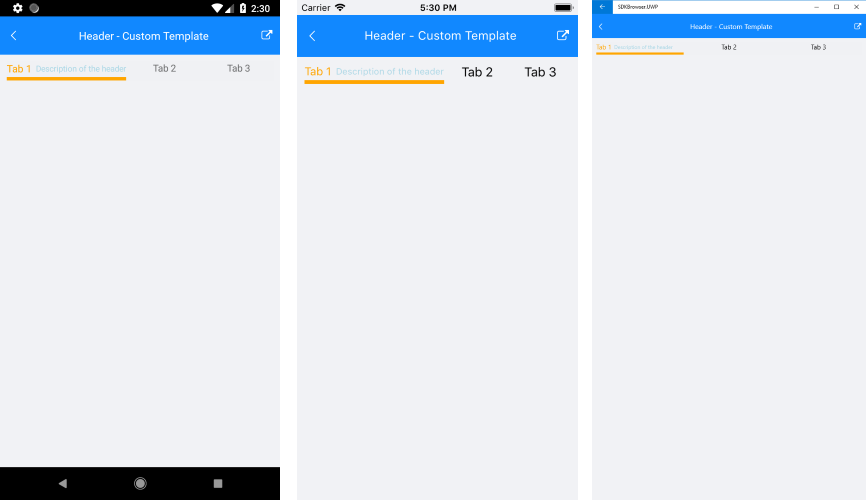
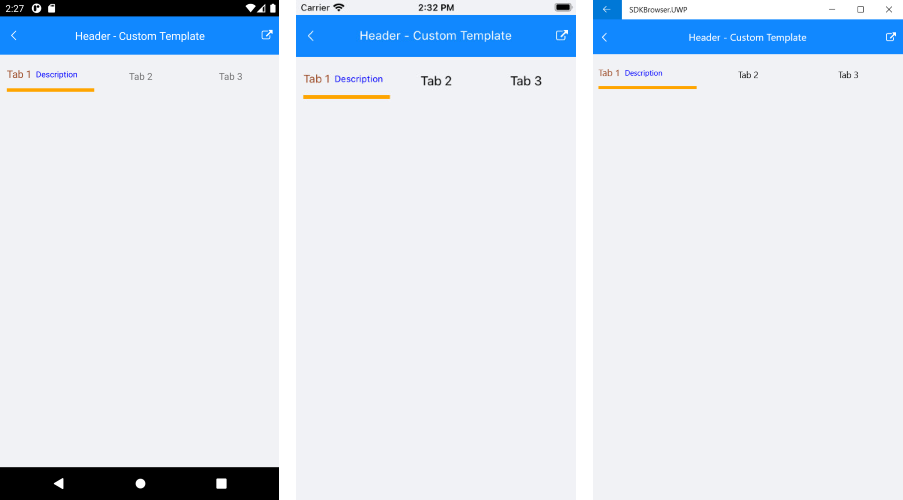
update tabview images and fix snippets in listview

diff --git a/controls/listview/listview-features-load-on-demand.md b/controls/listview/listview-features-load-on-demand.md
@@ -63,19 +63,19 @@ The example below demonstrates how to use the LoadOnDemand event:
 
 1. Define ListView:
 
-	<snippet id='listview-loadondemand-loadondemandeventauto-declaration'/>
+<snippet id='listview-loadondemand-loadondemandeventauto-declaration'/>
 
 1. Define the ListView namespace:
 
-	<snippet id='xmlns-telerikdatacontrols'/>
+<snippet id='xmlns-telerikdatacontrols'/>
 
 1. Set ListView itemsSource in page constructor:
 
-	<snippet id='listview-loadondemand-loadondemandeventauto-bind'/>
+<snippet id='listview-loadondemand-loadondemandeventauto-bind'/>
 
 1. Add the following event handler:
 
-	<snippet id='listview-loadondemand-loadondemandeventauto-event'/>
+<snippet id='listview-loadondemand-loadondemandeventauto-event'/>
 
 ### Using LoadOnDemand Command
 
@@ -88,11 +88,11 @@ The example below demonstrates how to use the LoadOnDemand command:
 
 1. Create a ViewModel class with a LoadItemsCommand as well as IsLoadingMoreItems bool property:
 
-    <snippet id='listview-loadondemand-loadondemandcommand-viewmodel' />
+<snippet id='listview-loadondemand-loadondemandcommand-viewmodel' />
 
 1. Define the RadListView instance in XAML with the ListViewUserCommand defined as well as the **IsLoadOnDemandActive** property bound to the boolean property in the ViewModel:
 
-    <snippet id='listview-loadondemand-loadondemandcommand-declaration'/>
+<snippet id='listview-loadondemand-loadondemandcommand-declaration'/>
 
 1. Define the following namespaces:
 
@@ -103,7 +103,7 @@ The example below demonstrates how to use the LoadOnDemand command:
 
 1. Set the ViewModel as BindingContext in the page constructor:
 
-    <snippet id='listview-loadondemand-loadondemandcommand-binding'/>
+<snippet id='listview-loadondemand-loadondemandcommand-binding'/>
 
 ## Advanced Options
 
@@ -111,6 +111,7 @@ The example below demonstrates how to use the LoadOnDemand command:
 This feature works in conjunction with the [LoadOnDemandMode.Automatic mode of the ListView]({%slug listview-features-load-on-demand%}#automatic-mode). You can control the minimum number of items loaded ahead through ListView's **LoadOnDemandBufferItemsCount** property. By default, it is set to 10 items. When ListView requests an item in the buffer, it will trigger a new loading batch.
 
 ### Change the Appearance of the Manual Load Button
+
 This feature works in conjunction with the [LoadOnDemandMode.Manual mode of the ListView]({%slug listview-features-load-on-demand%}#manual-loading-mode). You can control the content of the Load More Button through the **LoadOnDemandItemTemplate** property.
 
 <snippet id='listview-loadondemand-loadondemandcustomizations-lodbutton'/>

diff --git a/controls/listview/gestures/listview-gestures-cell-swipe.md b/controls/listview/gestures/listview-gestures-cell-swipe.md
@@ -71,19 +71,19 @@ The following example demonstrates how to use the **ItemSwipeCompleted** event. 
 
 1. Add the view model for the ListView:
 
-	<snippet id='listview-gestures-cellswipe-swipeevents-viewmodel'/>
+<snippet id='listview-gestures-cellswipe-swipeevents-viewmodel'/>
 
 1. Set up ListView. Swiping left or right will reveal content with a hint for what will happen if the user completes the swipe action.
 
-	<snippet id='listview-gestures-cellswipe-swipeevents-listview'/>
+<snippet id='listview-gestures-cellswipe-swipeevents-listview'/>
 
 1. Define the ListView namespace:
 
-	<snippet id='xmlns-teleriklistview'/>
+<snippet id='xmlns-teleriklistview'/>
 
 1. Configure what happens when the user completes the swipe gesture:
 
-	<snippet id='listview-gestures-cellswipe-swipeevents-swipecompleted'/> 
+<snippet id='listview-gestures-cellswipe-swipeevents-swipecompleted'/> 
 
 We call the **EndItemSwipe()** method to force the item to go to its default position since the scenario does not require any interaction with the swipe content itself.
 
@@ -95,19 +95,19 @@ The following example demonstrates how to add a delete button to the swipe conte
 
 1. Add the view model for the ListView:
 
-	<snippet id='listview-gestures-cellswipe-interactivecontent-viewmodel'/>
+<snippet id='listview-gestures-cellswipe-interactivecontent-viewmodel'/>
 
 1. Set up ListView. Note that the SwipeOffset is equal to the width of the button in the swipe content. Thus, when the swipe is complete, the revealed content will be the whole button.
 
-	<snippet id='listview-gestures-cellswipe-interactivecontent-listview'/>
+<snippet id='listview-gestures-cellswipe-interactivecontent-listview'/>
 
 1. Define the ListView namespace:
 
-	<snippet id='xmlns-teleriklistview'/>
+<snippet id='xmlns-teleriklistview'/>
 
 1. Configure what happens when the user completes the swipe gesture. The BindingContext of the swipe content is the data item. This could be used to perform operations on the data. In this case, we will delete the item from the source.
 
-	<snippet id='listview-gestures-cellswipe-interactivecontent-deleteitem'/>
+<snippet id='listview-gestures-cellswipe-interactivecontent-deleteitem'/>
 
 >important Sample Cell Swipe examples are available in the `ListView => Gestures` folder of the [SDK Browser application]({%slug developer-focused-examples%}#sdk-browser-application).
 >

diff --git a/controls/listview/cells/listview-cells.md b/controls/listview/cells/listview-cells.md
@@ -21,19 +21,19 @@ This example demonstrates how to create a list view with text cells, like this:
 
 1. Create a view model that will be the source of the list view:
 
-	<snippet id='listview-celltypes-textcell-viewmodel'/>
+<snippet id='listview-celltypes-textcell-viewmodel'/>
 
 1. Add the definition of the listview control:
 
-	<snippet id='listview-celltypes-textcell-listview-xaml'/>
-	
-	<snippet id='listview-celltypes-textcell-listview-csharp'/>
+<snippet id='listview-celltypes-textcell-listview-xaml'/>
+
+<snippet id='listview-celltypes-textcell-listview-csharp'/>
 
 1. Add the following namespaces:
 
-	<snippet id='xmlns-teleriklistview'/>
-	
-	<snippet id='ns-teleriklistview'/>
+<snippet id='xmlns-teleriklistview'/>
+
+<snippet id='ns-teleriklistview'/>
 
 1. Finally, set the list view as the content of your page.
 
@@ -45,27 +45,27 @@ This example demonstrates how to create a list view with templated cells, like t
 
 1. Create a view model that will be the source of the list view:
 
-	<snippet id='listview-celltypes-templatecell-viewmodel'/>
+<snippet id='listview-celltypes-templatecell-viewmodel'/>
 
 1. Define the listview control either in Xaml or in code behind.
 
 You can define the list view in Xaml like this:
 	
-	<snippet id='listview-celltypes-templatecell-listview-xaml'/>
+<snippet id='listview-celltypes-templatecell-listview-xaml'/>
 	
 - Define the namespace
 
-	<snippet id='xmlns-teleriklistview'/>
+<snippet id='xmlns-teleriklistview'/>
 	
 - You can define the list view in code behind:
 	
 - For clarity, let's build the template of the list view cell in a separate method:
 	
-	<snippet id='listview-celltypes-templatecell-cellcontent'/>
+<snippet id='listview-celltypes-templatecell-cellcontent'/>
 	
 - Define the list view:
 	
-	<snippet id='listview-celltypes-templatecell-listview-code'/>
+<snippet id='listview-celltypes-templatecell-listview-code'/>
 
 1. Finally, set the list view as the content of your page.
 

diff --git a/controls/tabview/tabview-header-item.md b/controls/tabview/tabview-header-item.md
@@ -100,10 +100,14 @@ Here is how to set `IsScrollable`
 ```XAML
 <telerikPrimitives:RadTabView x:Name="tabViewHeader" HeaderPosition="Top">
     <telerikPrimitives:RadTabView.Header>
-        <telerikPrimitives:TabViewHeader BackgroundColor="Orange" IsScrollable="True"/>
+        <telerikPrimitives:TabViewHeader IsScrollable="True"/>
     </telerikPrimitives:RadTabView.Header>
 </telerikPrimitives:RadTabView>
 ```
+
+Here is how the scrolling is performed:
+
+![Sctolling Tabs](images/tabview-scrolling-in-the-header.gif)
 
 ### Adjust the width between the tab view headers
 
@@ -129,9 +133,16 @@ If there are too many items in the tabview control and they cannot fit into the 
 
 ### Example
 
-This example demonstrates how to replace the default header of the RadTabView control and change its background. Also, how to set the header position to display the tab strip area at bottom.
+This example demonstrates how to replace the default header of the RadTabView control and change its background.
 
 <snippet id='tabview-features-tabviewheader-overflowbutton-xaml'/>
+
+and the style used for TabViewHeaderItem
+
+<snippet id='tabview-features-tabviewheader-styling'/>
+
+In addition here is how to define the TadView Header using C#:
+
 <snippet id='tabview-features-tabviewheader-csharp'/>
 
 Additionally, you can work with the already assigned header instead of replacing it with a new one. For example - `tabView.Header.BackgroundColor = Color.Green`. 
